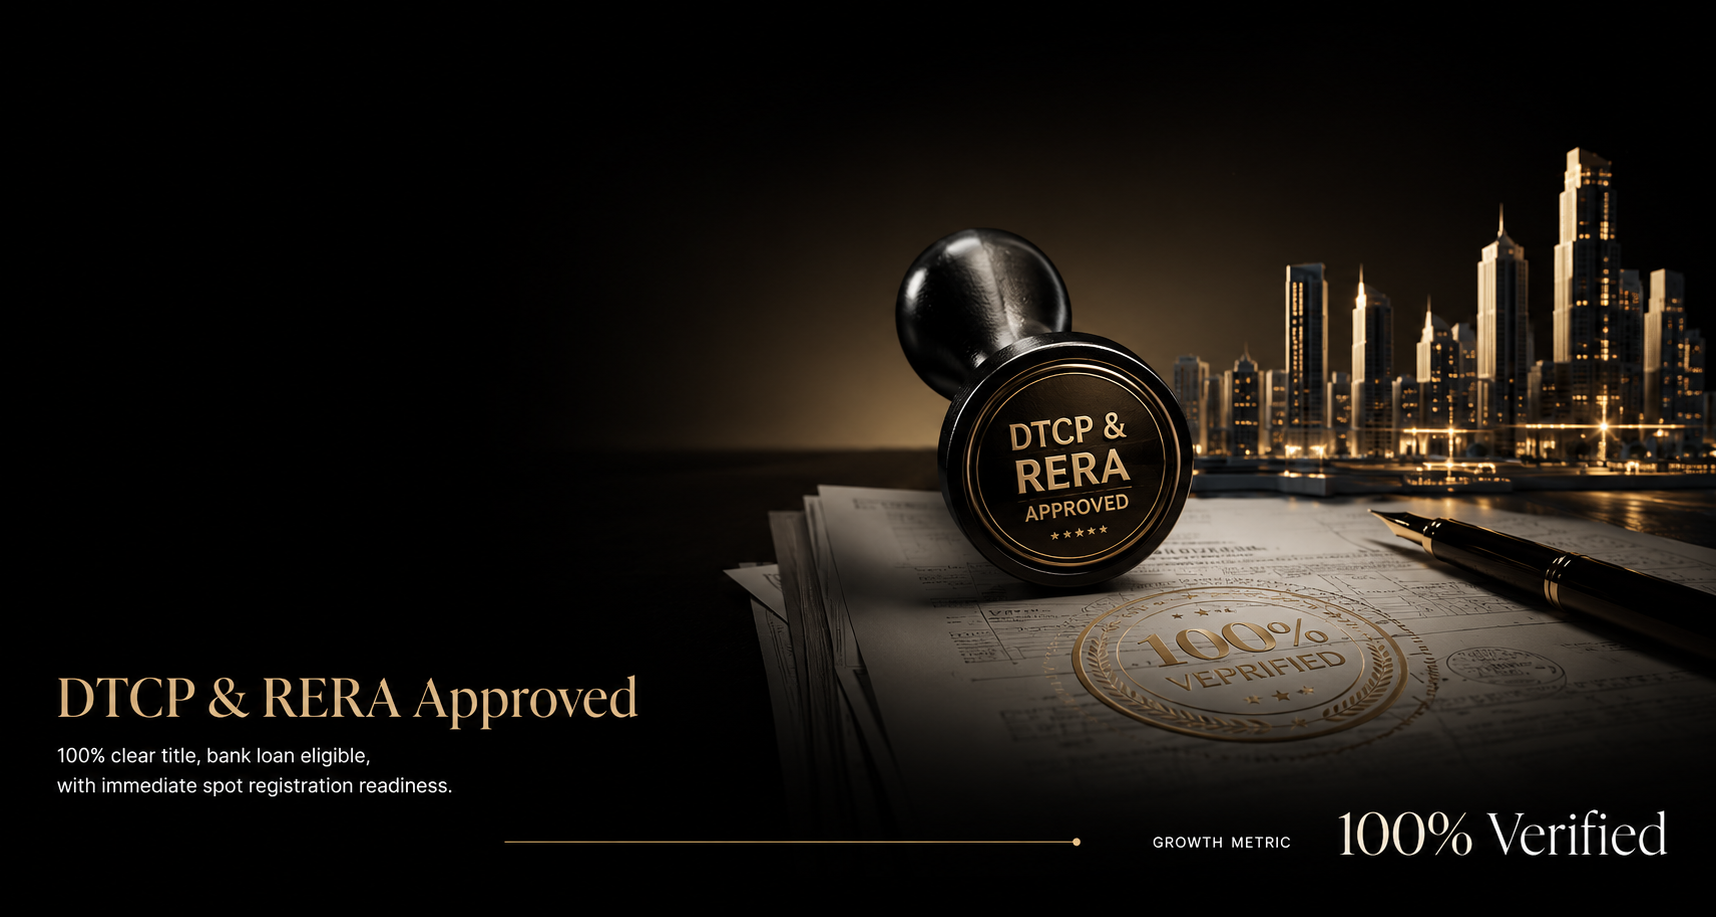
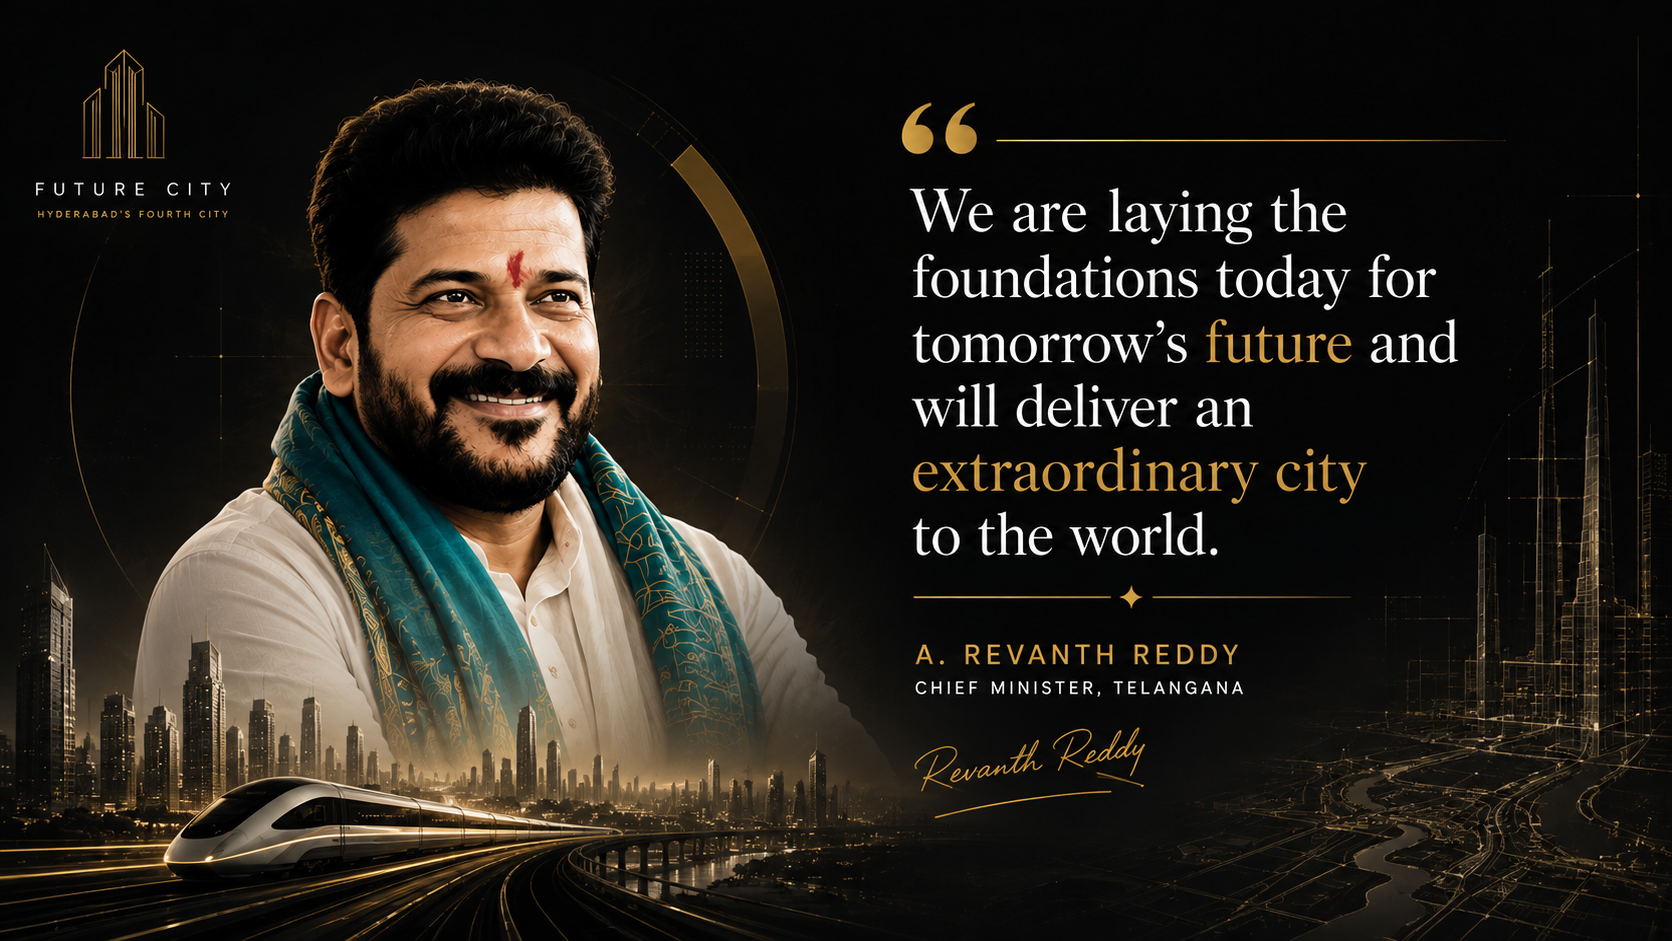
feat: add SolutionsShowcase component and premium hero section styling with accompanying assets

diff --git a/src/components/Solutions/SolutionsShowcase.tsx b/src/components/Solutions/SolutionsShowcase.tsx
@@ -59,6 +59,15 @@ const SolutionsShowcase: React.FC = () => {
       data-wf-variant-state="base"
       className="section-solutions-showcase"
     >
+      {/* Animated Section Header */}
+      <div className="section_animated-heading solutions-showcase_heading">
+        <div className="animated-heading_wrap">
+          <h2 className="animated-scroll-heading is-first">Future City</h2>
+          <h2 className="animated-scroll-heading is-middle">Growth & Vision</h2>
+          <h2 className="animated-scroll-heading is-last">Corridors</h2>
+        </div>
+      </div>
+
       <div className="solutions-showcase-wrap w-dyn-list">
         <div role="list" className="solutions-showcase-list w-dyn-items">
           {solutionsData.map((item, index) => (

diff --git a/src/styles/hero-redesign.css b/src/styles/hero-redesign.css
@@ -305,16 +305,19 @@
 }
 
 .nav-logo-img {
-  height: 52px;
+  height: 120px;
   width: auto;
   object-fit: contain;
   display: block;
-  transition: transform 0.3s ease, filter 0.3s ease;
+  margin-top: -16px;
+  margin-bottom: -16px;
+  filter: brightness(0) invert(1) drop-shadow(0 2px 12px rgba(212, 162, 76, 0.5));
+  transition: transform 0.35s cubic-bezier(0.16, 1, 0.3, 1), filter 0.35s ease;
 }
 
 .nav-logo:hover .nav-logo-img {
-  transform: scale(1.03);
-  filter: brightness(1.15);
+  transform: scale(1.05);
+  filter: drop-shadow(0 6px 20px rgba(0, 0, 0, 0.6));
 }
 
 .nav-actions {
@@ -475,7 +478,9 @@
   }
 
   .nav-logo-img {
-    height: 38px;
+    height: 80px;
+    margin-top: -8px;
+    margin-bottom: -8px;
   }
 
   .nav-inline-links {
